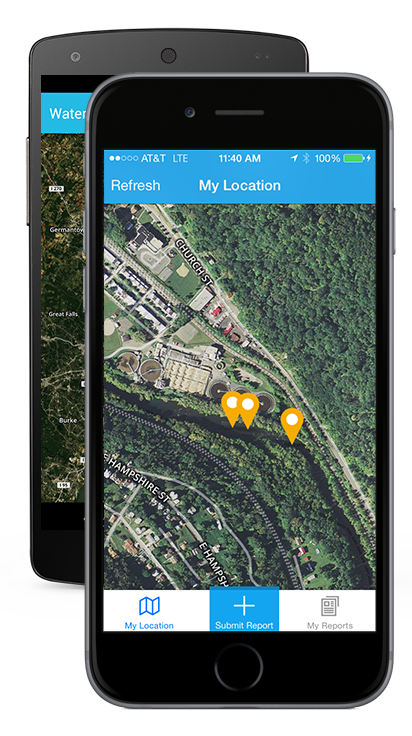
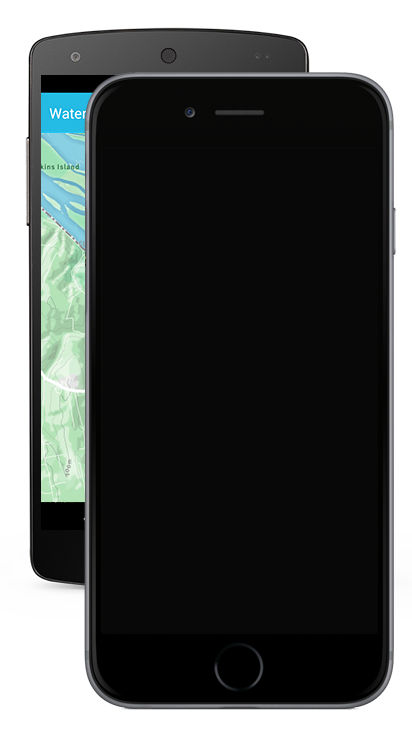
Added basic slide positioning to the home page;

diff --git a/app/styles/_front.scss b/app/styles/_front.scss
@@ -40,12 +40,23 @@
   float: left;
   margin: 0 0.625%;
   overflow: hidden;
+  position: relative;
   width: 32.0833333%
 }
 
-  .page--front--slider img {
+  .page--front--slider > img {
     width: 100%;
   }
+
+  .page--front--slides {
+    left: 95px;
+    position: absolute;
+    top: 135px;
+    width: 248px;
+  }
+    .page--front--slides > img {
+      width: 100%;
+    }
 
 .page--front--content {
   box-sizing: border-box;

diff --git a/app/modules/components/pages/home--view.html b/app/modules/components/pages/home--view.html
@@ -13,6 +13,10 @@
 
         <div class="page--front--slider">
           <img src="/images/example--Phones.png" alt="" title="" width="" class="pull-left" />
+
+          <div class="page--front--slides">
+            <img src="/images/slide_1.jpg" alt="Use the satellite or trails map to explore other peoples reports"/>
+          </div>
         </div>
 
         <div class="page--front--content">
